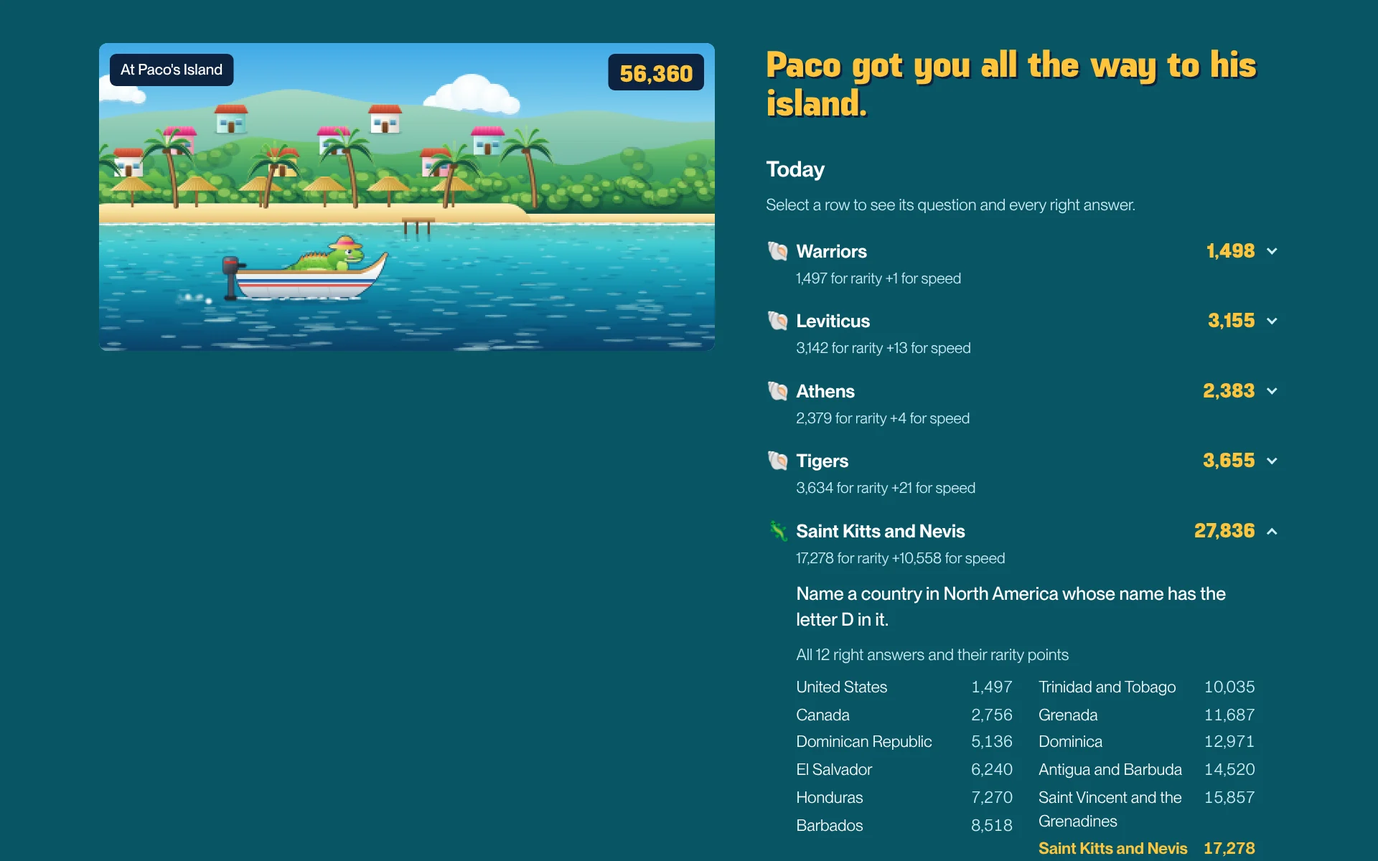
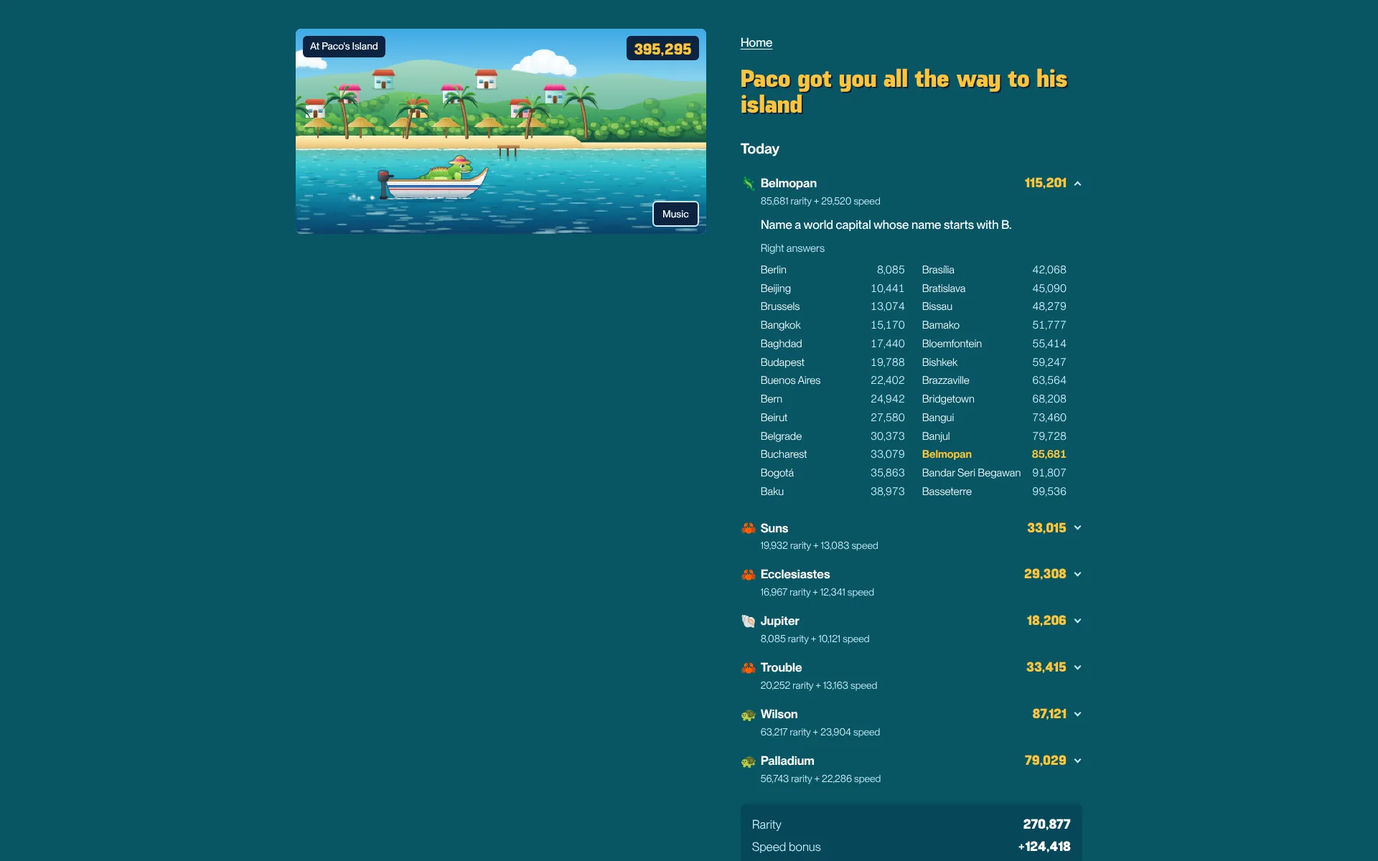
Bring the Paco's Island page up to date and add a World Six page
The Paco's Island page gets today's scale, trips, question count and set shape, new screenshots, and sections on its levels and Vacation mode. A new World Six project page covers its scoring, daily sets, places and stack, and Projects and the arcade link to it.

diff --git a/projects/pacos-island.html b/projects/pacos-island.html
@@ -40,27 +40,27 @@
 
     <h1 class="project__title">Paco&rsquo;s Island</h1>
     <p class="project__lede">A daily trivia game. Paco is an iguana with a boat, and every day he asks seven questions. Each one has a fixed list of right answers. The rarer your answer, the farther he takes you across a bay I made up.</p>
-    <dl class="glance"><div><dt>Problem</dt><dd>A game that scores an answer by how few people gave it needs a crowd before its scores mean anything.</dd></div><div><dt>System</dt><dd>Seven questions a day, the same for everyone. Every right answer carries a rarity score that&rsquo;s set ahead of time.</dd></div><div><dt>Mechanics</dt><dd>Rarity comes from how often a name appears in English text, steadied by a hand-set tier. A curve turns it into points, a speed bonus grows with rarity, and the day&rsquo;s total moves Paco along one of four trips.</dd></div><div><dt>Stack</dt><dd>HTML, CSS, and JavaScript with no build step; PixiJS; a service worker; a Node check on the question pool; Cloudflare Workers.</dd></div><div><dt>Result</dt><dd>640 questions, with daily sets built a year ahead. It scores the same for one player or a million, runs without a server, and installs to a computer or phone.</dd></div></dl>
+    <dl class="glance"><div><dt>Problem</dt><dd>A game that scores an answer by how few people gave it needs a crowd before its scores mean anything.</dd></div><div><dt>System</dt><dd>Seven questions a day, the same for everyone. Every right answer carries a rarity score that&rsquo;s set ahead of time.</dd></div><div><dt>Mechanics</dt><dd>Rarity comes from how often a name appears in English text, steadied by a hand-set tier. A curve turns it into points, a speed bonus grows with rarity, and the day&rsquo;s total moves Paco along one of seven trips.</dd></div><div><dt>Stack</dt><dd>HTML, CSS, and JavaScript with no build step; PixiJS; a service worker; a Node check on the question pool; Cloudflare Workers.</dd></div><div><dt>Result</dt><dd>1,075 questions, with daily sets built a year ahead. It scores the same for one player or a million, runs without a server, and installs to a computer or phone.</dd></div></dl>
 
     <figure class="figure bleed">
-      <img src="../assets/pacos-island/title.webp" alt="The Paco's Island title screen on a computer. On the left, a drawn scene of a bay: a town with colored houses, a striped lighthouse on a pier, and Paco the iguana in a straw hat in a white boat. On the right, the wordmark, a one-line description, a list of four trips with three still locked, and a yellow button reading Start today's trip." />
-      <figcaption>The title screen. The boat is open from the start, and the other three trips open with points.</figcaption>
+      <img src="../assets/pacos-island/title.webp" alt="The Paco's Island title screen on a computer. On the left, a drawn scene of a bay: a town with colored houses, a striped lighthouse on a pier, and Paco the iguana in a straw hat in a white boat. On the right, the wordmark, a choice of three levels, a choice between today's trip and endless mode, and the list of trips, with Deliveries with Tío still locked." />
+      <figcaption>The title screen. The boat is open from the start, and the other six trips open with points.</figcaption>
     </figure>
 
     <div class="project__body">
 
       <h2>A question has many right answers</h2>
-      <p>Every question is a list cut by a rule. &ldquo;Name a country in North America whose name has the letter D in it&rdquo; has twelve right answers. The United States earns 1,497 points. Saint Kitts and Nevis earns 17,278. You get 25 seconds, and a wrong guess costs only the time it took.</p>
+      <p>Every question is a list cut by a rule. &ldquo;Name a world capital whose name starts with B&rdquo; has 26 right answers. Berlin earns 8,085 points. Belmopan earns 85,681. You get 25 seconds, and a wrong guess costs only the time it took.</p>
 
-      <p>The lists are the 193 UN member states, world capitals, the 50 states and their capitals, Mexico&rsquo;s 32 federal entities, the 118 elements, four sports leagues, the presidents, the constellations, the Greek letters, the NATO alphabet, and the books of the Bible. A close misspelling counts, and the game tells you what it counted.</p>
+      <p>The lists are the 193 UN member states, world capitals, the 50 states and their capitals, Mexico&rsquo;s 32 federal entities, the 118 elements, seven sports leagues, the presidents, the constellations, the Greek letters, the NATO alphabet, and the books of the Bible. There are also 311 more lists, like board games, cheeses, and sitcom families. A close misspelling counts, and so does the distinctive part of a longer name: Pennsylvania counts for Pennsylvania Avenue. The game tells you what it counted.</p>
 
       <div class="figpair">
         <figure class="figure">
-          <img src="../assets/pacos-island/question.webp" alt="A question in play: Name a world capital whose name ends with S. An answer box, a yellow Answer button, and a clock bar at 25 seconds. The scene shows Paco's boat near a rock arch, with the next stop and the score in labels over the picture." />
+          <img src="../assets/pacos-island/question.webp" alt="A question in play: Name a world capital whose name starts with B. An answer box, a yellow Answer button, a clock bar at 24 seconds, and a pink Stumped button. The scene shows Paco's boat at the pier, with the next stop and the score in labels over the picture." />
           <figcaption>A question, the clock, and the next stop on the scene.</figcaption>
         </figure>
         <figure class="figure">
-          <img src="../assets/pacos-island/answer.webp" alt="The result of an answer: Saint Kitts and Nevis, 27,897 points in large yellow numbers, split into 17,278 for rarity and 10,619 for speed, with a Next question button. The boat has moved along the coast." />
+          <img src="../assets/pacos-island/answer.webp" alt="The result of an answer: Belmopan, 115,201 points in large yellow numbers, split into 85,681 rarity and 29,520 speed, with a Next question button. The boat has moved along the coast." />
           <figcaption>A rare answer, given fast. The points split into rarity and speed.</figcaption>
         </figure>
       </div>
@@ -68,13 +68,13 @@
       <h2>Rarity is fixed, so the game needs no crowd</h2>
       <p>Each answer has a familiarity score that never changes with play. For places, elements, and presidents, 60% of it comes from how often the name appears in English text and 40% from a tier I set by hand, from 1 for a name almost everyone thinks of to 5 for one almost nobody does. Team nicknames use the tier alone, because Heat, Wild, and Stars are common words and their frequency says nothing about the team.</p>
 
-      <p>On a question, an answer&rsquo;s rarity depends on where it sits among the other right answers, so a list of 6 and a list of 55 score on the same scale. A curve turns that into up to 20,000 points. The most familiar answer earns about 1,500. The speed bonus is worth a lot on a rare answer and almost nothing on a common one, and it halves about every seven seconds.</p>
+      <p>On a question, an answer&rsquo;s rarity depends on where it sits among the other right answers, so a list of 6 and a list of 55 score on the same scale. A curve turns that into up to 108,000 points. The most familiar answer earns about 8,100. The speed bonus is 8,100 points plus a quarter of the rarity. It&rsquo;s full for the first five seconds and nearly gone by 15. A question tops out at 143,100, and a perfect day at 1,001,700.</p>
 
       <h2>Every set opens easy</h2>
-      <p>A set of seven has the same shape every day: two openers anyone can answer, three medium questions, and two hard ones. No list appears twice in a set. The daily sets are built a year ahead, and each day skips the questions used in the 30 days before it.</p>
+      <p>A set of seven has the same shape every day: two openers anyone can answer, an easy one, three medium questions, and a hard one. No list appears twice in a set. The daily sets are built a year ahead, and each day skips the questions used in the 30 days before it. Days already played are locked, so adding questions never changes a day someone has seen.</p>
 
       <h2>The score is a place</h2>
-      <p>Your trip shows the day&rsquo;s score as how far Paco got you. The boat runs from the Ixtaluz pier to his island. A walk to a waterfall opens at 50,000 lifetime points, an ATV ride at 110,000, and a dive at 450,000. Points are the same on every trip, so two players on different trips can still compare scores.</p>
+      <p>Your trip shows the day&rsquo;s score as how far Paco got you. The boat runs from the Ixtaluz pier to his island. A walk to a waterfall opens at 270,000 lifetime points, and an ATV ride at 594,000. Deliveries with Tío open at 810,000, then a night market at 1,080,000. A flight with Esmeralda the macaw opens at 1,620,000, and a dive at 2,430,000. Points are the same on every trip, so two players on different trips can still compare scores.</p>
 
       <p>Every place is invented: the bay, the town, the stops along the coast, and the island. Each name was searched before use, and the ones that matched a real place were dropped.</p>
 
@@ -83,16 +83,27 @@
         <figcaption>The boat, the walk, the ATV, and the dive.</figcaption>
       </figure>
 
-      <h2>The end of the day shows every answer once</h2>
-      <p>The score sheet has one row per question: your answer and its points. A row opens to its question and every right answer, most familiar first, with what each would have earned. The share text lists the seven scores, the rarity and speed totals, and your time.</p>
+      <h2>Three levels and an endless mode</h2>
+      <p>Paco&rsquo;s mode gives you 25 seconds a question. Mario&rsquo;s mode, with Paco&rsquo;s twin brother, gives you 40 seconds and pays half. When the clock runs out it&rsquo;s island time: the question stays open, and a right answer earns a flat 2,700 points. Stumped moves on with none. Each level has its own daily set, and endless mode deals new rounds of seven with every trip open.</p>
+
+      <h2>Vacation mode has no clock</h2>
+      <p>Vacation mode is for people who don&rsquo;t want a timer. A right answer scores its rarity alone, and the questions are the easiest in the game. Paco strolls down a beach to Maria&rsquo;s caf&eacute;. After every right answer, her menu comes up: seven drinks and eight plates. Pick one, and she walks it over to Paco.</p>
 
       <figure class="figure bleed">
-        <img src="../assets/pacos-island/end.webp" alt="The end of a day. The headline reads Paco got you all the way to his island. A score sheet lists seven answers with their points. One row is open, showing its question and all twelve right answers with their rarity points, with the player's answer marked in yellow." />
-        <figcaption>One row is open. It shows the question and all twelve right answers.</figcaption>
+        <img src="../assets/pacos-island/vacation-strip.webp" alt="Three phone screens from Vacation mode. The title screen with the beach lane and Vacation mode chosen. Maria's menu, Café Maria, listing drinks with a drawing of each. Maria standing beside Paco on the boardwalk with the drink, and below it the drink drawn large: Agua de jamaica, iced hibiscus tea." />
+        <figcaption>The Vacation mode start screen, Maria&rsquo;s menu, and Maria bringing an agua de jamaica.</figcaption>
+      </figure>
+
+      <h2>The end of the day shows every answer once</h2>
+      <p>The score sheet has one row per question: your answer and its points. A row opens to its question and every right answer, most familiar first, with what each would have earned. The share text is a row of marks, one per question, and the final score. The end screen also measures the day against 1,000 simulated players on the same seven questions.</p>
+
+      <figure class="figure bleed">
+        <img src="../assets/pacos-island/end.webp" alt="The end of a day. The headline reads Paco got you all the way to his island. A score sheet lists seven answers with their points. The first row is open, showing its question and all 26 right answers with their rarity points, with the player's answer, Belmopan, marked in yellow." />
+        <figcaption>One row is open. It shows the question and all 26 right answers.</figcaption>
       </figure>
 
       <figure class="figure bleed">
-        <img src="../assets/pacos-island/phone-strip.webp" alt="Three phone screens side by side: the title screen with the scene above the list of trips, a question with the answer box and clock, and the end of the day with the score sheet." />
+        <img src="../assets/pacos-island/phone-strip.webp" alt="Three phone screens side by side: the title screen with the scene above the levels, a question with the answer box and clock, and the end of the day with the score sheet." />
         <figcaption>The title, a question, and the end of the day on a phone.</figcaption>
       </figure>
 
@@ -116,7 +127,7 @@
       </dl>
 
       <h2>What changed after the first build</h2>
-      <p>The first version scored an answer by the share of players who gave it, with estimates standing in until people played. Fixed scores replaced that. The stops were first named for real places, and they became invented ones. The scene started as 240 by 120 pixel art and was redrawn twice, ending at 480 by 240 with shading and gradients. The pool grew from 218 questions to 640, and sets began to open with easy ones.</p>
+      <p>The first version scored an answer by the share of players who gave it, with estimates standing in until people played. Fixed scores replaced that. The stops were first named for real places, and they became invented ones. The scene started as 240 by 120 pixel art and was redrawn twice, ending at 480 by 240 with shading and gradients. The pool grew from 218 questions to 640, and sets began to open with easy ones. After launch, scores moved to a pinball scale, three trips were added, Vacation mode arrived, and the pool passed 1,000 questions.</p>
 
       <p class="tech-line">Play it: <a href="https://pacoisland.fun/" target="_blank" rel="noopener">Paco&rsquo;s Island</a>. Repo: <a href="https://github.com/quarterback/pacos-island" target="_blank" rel="noopener">quarterback/pacos-island</a>.</p>
 

diff --git a/projects/world-six.html b/projects/world-six.html
@@ -1,0 +1,132 @@
+<!doctype html>
+<html lang="en">
+<head>
+<meta charset="utf-8" />
+<meta name="viewport" content="width=device-width, initial-scale=1" />
+<link rel="icon" href="/favicon.svg" type="image/svg+xml" />
+<link rel="icon" href="/favicon.png" type="image/png" sizes="any" />
+<title>World Six | Ron Bronson</title>
+<meta name="description" content="A daily geography game Ron Bronson designed. Players find six places on a world map, one tap each, and score for how close and how fast they are." />
+<link rel="canonical" href="https://ronbronson.dev/projects/world-six.html" />
+<meta property="og:type" content="website" />
+<meta property="og:site_name" content="Ron Bronson" />
+<meta property="og:title" content="World Six | Ron Bronson" />
+<meta property="og:description" content="A daily geography game Ron Bronson designed. Players find six places on a world map, one tap each, and score for how close and how fast they are." />
+<meta property="og:url" content="https://ronbronson.dev/projects/world-six.html" />
+<meta property="og:image" content="https://ronbronson.dev/assets/social-card.png" />
+<meta property="og:image:width" content="1200" />
+<meta property="og:image:height" content="630" />
+<meta property="og:image:alt" content="Ron Bronson beside the words Problems Are Designed, with a workshop photo and a content schema check." />
+<meta name="twitter:card" content="summary_large_image" />
+<meta name="twitter:title" content="World Six | Ron Bronson" />
+<meta name="twitter:description" content="A daily geography game Ron Bronson designed. Players find six places on a world map, one tap each, and score for how close and how fast they are." />
+<meta name="twitter:image" content="https://ronbronson.dev/assets/social-card.png" />
+<link rel="preload" as="font" type="font/woff2" href="../assets/fonts/gallery/PPNeueMontreal-Extrabold.woff2" crossorigin />
+<link rel="stylesheet" href="../assets/slabs.css" />
+<script src="../assets/contact.js" defer></script>
+</head>
+<body class="pg-blue">
+<div class="s-wrap">
+
+  <header class="top">
+    <p class="top__name"><a href="../index.html">Ron Bronson</a></p>
+    <nav aria-label="Main navigation"><a href="../index.html#work">Work</a><a href="https://ronbronson.design">Design</a><a href="https://blog.ronbronson.dev">Blog</a><a class="nav-gh" href="https://github.com/quarterback" target="_blank" rel="me noopener" aria-label="GitHub" title="GitHub"><svg viewBox="0 0 496 512" width="22" height="22" fill="currentColor" aria-hidden="true"><path d="M165.9 397.4c0 2-2.3 3.6-5.2 3.6-3.3.3-5.6-1.3-5.6-3.6 0-2 2.3-3.6 5.2-3.6 3-.3 5.6 1.3 5.6 3.6zm-31.1-4.5c-.7 2 1.3 4.3 4.3 4.9 2.6 1 5.6 0 6.2-2s-1.3-4.3-4.3-5.2c-2.6-.7-5.5.3-6.2 2.3zm44.2-1.7c-2.9.7-4.9 2.6-4.6 4.9.3 2 2.9 3.3 5.9 2.6 2.9-.7 4.9-2.6 4.6-4.6-.3-1.9-3-3.2-5.9-2.9zM244.8 8C106.1 8 0 113.3 0 252c0 110.9 69.8 205.8 169.5 239.2 12.8 2.3 17.3-5.6 17.3-12.1 0-6.2-.3-40.4-.3-61.4 0 0-70 15-84.7-29.8 0 0-11.4-29.1-27.8-36.6 0 0-22.9-15.7 1.6-15.4 0 0 24.9 2 38.6 25.8 21.9 38.6 58.6 27.5 72.9 20.9 2.3-16 8.8-27.1 16-33.7-55.9-6.2-112.3-14.3-112.3-110.5 0-27.5 7.6-41.3 23.6-58.9-2.6-6.5-11.1-33.3 2.6-67.9 20.9-6.5 69 27 69 27 20-5.6 41.5-8.5 62.8-8.5s42.8 2.9 62.8 8.5c0 0 48.1-33.6 69-27 13.7 34.7 5.2 61.4 2.6 67.9 16 17.7 26 31.4 26 58.9 0 96.5-58.9 104.2-114.8 110.5 9.2 7.9 17 22.9 17 46.4 0 33.7-.3 75.4-.3 82 0 6.5 4.6 14.4 17.3 12.1C428.2 457.8 496 362.9 496 252 496 113.3 383.5 8 244.8 8z"/></svg></a><a class="nav-mail" href="#contact" data-contact aria-label="Email" title="Email"><svg viewBox="0 0 24 24" width="22" height="22" fill="none" stroke="currentColor" stroke-width="2.2" stroke-linejoin="round" aria-hidden="true"><rect x="2.5" y="5" width="19" height="14"/><path d="M3 6l9 7 9-7"/></svg></a></nav>
+  </header>
+
+  <article class="project">
+
+    <h1 class="project__title">World Six</h1>
+    <p class="project__lede">A daily geography game. You get six places a day and one tap on a world map for each. The closer your pin, and the faster you place it, the more you score.</p>
+    <dl class="glance"><div><dt>Problem</dt><dd>A map game that pays for speed ends up rewarding fast, random taps.</dd></div><div><dt>System</dt><dd>Six places a day, the same for everyone: two easy, two medium, and two hard, one per country, from at least four continents.</dd></div><div><dt>Mechanics</dt><dd>Each pin earns up to 20,000 points for distance and up to 30,000 more for speed. The speed bonus grows with the cube of your accuracy, so a fast miss earns almost none.</dd></div><div><dt>Stack</dt><dd>SvelteKit, MapLibre, and d3-geo; an Express API that keeps the clock and the score; Cloudflare Workers.</dd></div><div><dt>Result</dt><dd>97 hand-picked places and about 3,400 more from Natural Earth and GeoNames. Every day&rsquo;s set comes from the date, and your history stays on your device.</dd></div></dl>
+
+    <figure class="figure bleed">
+      <img src="../assets/world-six/play.webp" alt="World Six on a computer, mid-round. A world map fills the screen. A card in the corner reads Round 1: Chicago was 6,247 mi away, then Round 2 of 6, Hiroshima, Hiroshima, Japan. Six numbered squares across the top show the rounds." />
+      <figcaption>A round in play. The previous answer&rsquo;s distance and points sit above the new place.</figcaption>
+    </figure>
+
+    <div class="project__body">
+
+      <h2>Closer and faster both score</h2>
+      <p>Distance is measured over a round Earth, the shortest way between your pin and the place. A pin on the spot earns 20,000 points, one 25 miles off earns 15,988, and one 250 miles off earns 7,358. The curve has no bands, so every mile counts.</p>
+
+      <p>The speed bonus starts at one and a half times your distance points and fades as the round goes on, to about a third every ten seconds. It&rsquo;s scaled by the cube of your accuracy. A pin 5 miles off in 5 seconds scores 31,772. A pin 25 miles off in 1 second scores 27,075. The clock only runs while you&rsquo;re guessing.</p>
+
+      <h2>Six places, balanced every day</h2>
+      <p>Each day has two easy places, two medium, and two hard, in that order, with one place per country from at least four continents. The last one is a less familiar place. A place rests 60 days after it&rsquo;s used if it&rsquo;s easy, 180 if it&rsquo;s medium, and 365 if it&rsquo;s hard. Every clue gives the town, its state or province, and its country, so a name like Nelson is never a guess.</p>
+
+      <p>The first 97 places were picked by hand. On 18 November 2026 about 3,400 more came in from Natural Earth and GeoNames. Days before then still use only the first 97, so a past day never changes.</p>
+
+      <h2>No transition screens</h2>
+      <p>Play opens round one. A tap on the map submits your guess and opens the next place straight away, with the last answer&rsquo;s distance and points in a line above it. Every pin shows on the results page. Practice deals a new set of six anytime and stays out of your daily history.</p>
+
+      <figure class="figure bleed">
+        <img src="../assets/world-six/phone-strip.webp" alt="Three phone screens. Round 1 of 6, Auckland, Auckland Region, New Zealand, over a world map. Round 2 of 6, Kano, Kano State, Nigeria, with the line Round 1: Auckland was 34 mi away, plus 18,162. The results page: six rounds with flags and points, 88,632 for distance, 20,150 for speed, and a total of 108,782." />
+        <figcaption>Two rounds and the results of a practice run on a phone.</figcaption>
+      </figure>
+
+      <h2>The date line</h2>
+      <p>Because distance is measured over a round Earth, a guess near Fiji that lands on the other side of the date line still counts the short way around. The results map draws it that way too, so a near miss shows as a near miss.</p>
+
+      <h2>How it&rsquo;s built</h2>
+
+      <dl class="stack-block">
+        <dt>App</dt>
+        <dd>SvelteKit and Svelte 5, with MapLibre and d3-geo for the map. While you play, the map fills the screen on a phone or a computer.</dd>
+        <dt>API</dt>
+        <dd>An Express server keeps the time and does the scoring, so the browser&rsquo;s clock is only for show. Game sessions are encrypted tokens, and no player&rsquo;s results are stored.</dd>
+        <dt>Places</dt>
+        <dd>A build script pulls cities and towns from Natural Earth and GeoNames, with each place&rsquo;s state or province.</dd>
+        <dt>Shares</dt>
+        <dd>A shared result is a signed link, so the score in it can&rsquo;t be edited.</dd>
+        <dt>History</dt>
+        <dd>Your past games stay in your browser. There are no accounts.</dd>
+        <dt>Hosting</dt>
+        <dd>One Cloudflare Worker serves the app and runs the API.</dd>
+      </dl>
+
+      <p class="tech-line">Play it: <a href="https://worldsix.pdtmag.com/" target="_blank" rel="noopener">World Six</a>.</p>
+
+    </div>
+
+  </article>
+
+  <footer class="foot" id="contact">
+    <div class="hx-icons" aria-label="Elsewhere"><a class="hx-i" href="https://bsky.app/profile/ronbronson.com" target="_blank" rel="me noopener" aria-label="Bluesky" title="Bluesky"><svg viewBox="0 0 576 512" fill="currentColor" aria-hidden="true"><path d="M407.8 294.7c-3.3-.4-6.7-.8-10-1.3 3.4 .4 6.7 .9 10 1.3zM288 227.1C261.9 176.4 190.9 81.9 124.9 35.3 61.6-9.4 37.5-1.7 21.6 5.5 3.3 13.8 0 41.9 0 58.4S9.1 194 15 213.9c19.5 65.7 89.1 87.9 153.2 80.7 3.3-.5 6.6-.9 10-1.4-3.3 .5-6.6 1-10 1.4-93.9 14-177.3 48.2-67.9 169.9 120.3 124.6 164.8-26.7 187.7-103.4 22.9 76.7 49.2 222.5 185.6 103.4 102.4-103.4 28.1-156-65.8-169.9-3.3-.4-6.7-.8-10-1.3 3.4 .4 6.7 .9 10 1.3 64.1 7.1 133.6-15.1 153.2-80.7 5.9-19.9 15-138.9 15-155.5s-3.3-44.7-21.6-52.9c-15.8-7.1-40-14.9-103.2 29.8-66.1 46.6-137.1 141.1-163.2 191.8z"></path></svg></a><a class="hx-i" href="https://github.com/quarterback" target="_blank" rel="me noopener" aria-label="GitHub" title="GitHub"><svg viewBox="0 0 512 512" fill="currentColor" aria-hidden="true"><path d="M216.5 362.5c-66-8-112.5-55.5-112.5-117 0-25 9-52 24-70-6.5-16.5-5.5-51.5 2-66 20-2.5 47 8 63 22.5 19-6 39-9 63.5-9s44.5 3 62.5 8.5c15.5-14 43-24.5 63-22 7 13.5 8 48.5 1.5 65.5 16 19 24.5 44.5 24.5 70.5 0 61.5-46.5 108-113.5 116.5 17 11 28.5 35 28.5 62.5l0 52C323 491.5 335.5 500 350.5 494 441 459.5 512 369 512 257 512 115.5 397 0 255.5 0S0 115.5 0 257c0 111 70.5 203 165.5 237.5 13.5 5 26.5-4 26.5-17.5l0-40c-7 3-16 5-24 5-33 0-52.5-18-66.5-51.5-5.5-13.5-11.5-21.5-23-23-6-.5-8-3-8-6 0-6 10-10.5 20-10.5 14.5 0 27 9 40 27.5 10 14.5 20.5 21 33 21s20.5-4.5 32-16c8.5-8.5 15-16 21-21z"></path></svg></a><a class="hx-i" rel="me" href="mailto:ron@ronbronson.com" aria-label="Email" title="Email"><svg viewBox="0 0 512 512" fill="currentColor" aria-hidden="true"><path d="M48 64c-26.5 0-48 21.5-48 48 0 15.1 7.1 29.3 19.2 38.4l208 156c17.1 12.8 40.5 12.8 57.6 0l208-156c12.1-9.1 19.2-23.3 19.2-38.4 0-26.5-21.5-48-48-48L48 64zM0 196L0 384c0 35.3 28.7 64 64 64l384 0c35.3 0 64-28.7 64-64l0-188-198.4 148.8c-34.1 25.6-81.1 25.6-115.2 0L0 196z"></path></svg></a></div>
+    <h2>Colophon, with digressions</h2>
+    <p><b>Type</b> PP Neue Montreal, Hanken Grotesk, IBM Plex Mono</p>
+    <p><b>Built with</b> HTML, CSS, JavaScript, SVG</p>
+    <p><b>Images</b> static screenshots</p>
+    <p><b>Hosting</b> GitHub, Vercel</p>
+    <p class="digression" id="digression">Inexplicably, a Green Bay Packers shareholder.</p>
+  </footer>
+
+</div>
+  <script>
+    /* Digressions — one aside, picked at random per load (never the same
+       one twice in a row). Add or edit entries in DIGRESSIONS; the footer
+       shows one at a time so the list never has to be spelled out. */
+    (function () {
+      var DIGRESSIONS = [
+        "Inexplicably, a Green Bay Packers shareholder.",
+        "Favorite sports teams: Toronto Blue Jays, Vimpelin Veto, New Jersey Devils, Lapuan Virkiä, <s>New York Jets</s>, Portland Timbers, New York Knicks, Portland Thorns, Brighton &amp; Hove Albion, Sassuolo, Toluca, Toronto Tempo, Montreal Expos (RIP)",
+        "<em>Have you seen my fragrance collection?</em> <a href='https://www.oksmelly.xyz/' target='_blank' rel='noopener'>it’s here</a>.",
+        "I’m a longtime tea sommelier. I once curated the tea menu at <a href='https://hopscotchcoffee.com/' target='_blank' rel='noopener'>Hopscotch Coffee</a> in Bloomington. Ask me for loose-leaf recs!",
+        "Favorite wine regions: Slovenia, Georgia or anything that aged in amphorae or an old boot. I’m not picky.",
+        "I’ve coached high school tennis for ten years across 3 states. My career varsity record apparently is 91-33-4. 1 team state championship, 4 District/Regional titles, 5 Conference titles. 4 individual state champions. So far…",
+        "Yes, I have a <a href='https://www.discogs.com/user/quarterback/collection?header=1' target='_blank' rel='noopener'>Discogs</a> 🙄",
+        "I actually grew up watching golf, because my grandfather played. I still like a Par 3 because of him.",
+        "Last time I went fishing? 1994.",
+        "Unsurprisingly, I was once a bar trivia host in Bloomington. One step closer to my true calling: game show host."
+      ];
+      var el = document.getElementById("digression");
+      if (!el) return;
+      var last = -1;
+      try { last = parseInt(sessionStorage.getItem("rb-digression"), 10); } catch (e) {}
+      var i = Math.floor(Math.random() * DIGRESSIONS.length);
+      while (DIGRESSIONS.length > 1 && i === last) i = Math.floor(Math.random() * DIGRESSIONS.length);
+      try { sessionStorage.setItem("rb-digression", i); } catch (e) {}
+      el.innerHTML = DIGRESSIONS[i];
+    })();
+  </script>
+</body>
+</html>

diff --git a/projects.html b/projects.html
@@ -27,7 +27,7 @@
       <li><b><a href="projects/varsityapex.html">VarsityApex</a></b><span>A prototype that turns the files schools already produce into portable, attributable records.</span><img class="pop" src="assets/varsityapex/home.png" alt="" loading="lazy" /></li>
       <li><b><a href="projects/coalition.html">Coalition</a></b><span>An escape game in one HTML file, where allies work in parallel and dice force you to plan around the people who fail to deliver.</span><img class="pop" src="assets/coalition/play.webp" alt="" loading="lazy" /></li>
       <li><b><a href="projects/pacos-island.html">Paco&rsquo;s Island</a></b><span>Seven trivia questions a day. The rarer your answer, the farther Paco the iguana takes you.</span><img class="pop" src="assets/pacos-island/end.webp" alt="" loading="lazy" /></li>
-      <li><b><a href="https://worldsix.pdtmag.com">World Six</a></b><span>A daily geography game: six places, one tap each on a world map.</span><img class="pop" src="assets/world-six/play.webp" alt="" loading="lazy" /></li>
+      <li><b><a href="projects/world-six.html">World Six</a></b><span>A daily geography game: six places, one tap each on a world map.</span><img class="pop" src="assets/world-six/play.webp" alt="" loading="lazy" /></li>
       <li><b><a href="projects/draft-lab.html">Cap Buffet</a></b><span>Lets a league try a salary cap system before adopting it, with 18 mechanics as swappable modules.</span><img class="pop" src="assets/capbuffet/home.png" alt="" loading="lazy" /></li>
       <li><b><a href="projects/oregon-tennis.html">Oregon HS Tennis Power Rankings</a></b><span>Independent ratings for every Oregon high school team from four years of results, like the computer rankings in college football and basketball.</span><img class="pop" src="assets/oregon-tennis/home.png" alt="" loading="lazy" /></li>
       <li><b><a href="projects/occupant.html">Occupant Indices</a></b><span>Daily price and activity indices for the AI economy, built from public data.</span><img class="pop" src="assets/occupant/dashboard.webp" alt="" loading="lazy" /></li>

diff --git a/arcade.html b/arcade.html
@@ -49,7 +49,7 @@
     <article class="cab cab--upright" style="--mq: #d9f071; --mq-ink: #192b31;">
       <h3 class="cab__marquee"><a href="https://worldsix.pdtmag.com">World Six</a></h3>
       <div class="cab__screen"><video muted loop playsinline preload="none" poster="assets/world-six/run-poster.webp" aria-label="A World Six round played on a phone: six places, a tap on the world map for each, and the final score"><source src="assets/world-six/run.mp4" type="video/mp4" /><source src="assets/world-six/run.webm" type="video/webm" /></video></div>
-      <div class="cab__panel"><a class="cab__btn cab__btn--play" href="https://worldsix.pdtmag.com">Play</a></div>
+      <div class="cab__panel"><a class="cab__btn cab__btn--play" href="https://worldsix.pdtmag.com">Play</a><a class="cab__btn cab__btn--how" href="projects/world-six.html">How I built it</a></div>
       <p class="cab__about">Six places a day, one tap each on a world map. Closer and faster both score. A guess across the date line counts the short way around.</p>
     </article>
     <article class="cab cab--upright" style="--mq: #15151f; --mq-ink: #ffd24a;">

diff --git a/docs/aar-arcade-2026-11-20.md b/docs/aar-arcade-2026-11-20.md
@@ -48,9 +48,21 @@ Ron asked whether the Projects page had changed. It hadn't, apart from Arcade in
 - **Arcade:** the Paco's Island cabinet now has How I built it, linking the project page.
 - **Checks:** projects.html, arcade.html and the Paco's Island page load with no failed requests or page errors; prosekeep 0 findings on both pages; plain-language-default 0 on the new lines.
 
-## 6. Gaps
+## 6. Follow-up: closing the open items
 
-- World Six has no project page, so its cabinet has no How I built it button.
-- The Paco's Island project page predates Vacation mode and doesn't mention it.
+Ron asked for the open items to be done, with the language held to his editorial rules, and the arcade cut to its title and the games.
+
+- **Arcade:** the title is "Arcade" (not "Ron's Arcade"), with no subtitle, no section labels, and no talk line; all seven cabinets sit on one floor, with Tennis Polo last. Projects is in its navigation. Play To Clinch and SuperInnings, which aren't online, lost their Play buttons and link to their project pages. Viperball is described as a computer game. Tennis Polo is described as Ron put it, a field sport for two teams of nine with a racket-holding goalkeeper, and shows one of his 2010 game photos from his Substack post (his own photo; he asked for no credit).
+- **Paco's Island page:** brought up to date from the game's spec. Seven trips, not four, with today's opening thresholds; 1,075 questions; the pinball scale (up to 108,000 rarity points, 143,100 a question, 1,001,700 a day); the speed bonus as it works now; the set shape (two openers, an easy one, three medium, a hard one); locked days; seven sports leagues and 311 more lists; partial names. The worked example moved from a retired letter question to "Name a world capital whose name starts with B" (Berlin 8,085, Belmopan 85,681). New sections: "Three levels and an endless mode" and "Vacation mode has no clock," with a new three-phone strip. Every screenshot was retaken at the current scale, and the alt text rewritten to match.
+- **World Six page (`projects/world-six.html`):** new, in the Paco's Island page's format, from the game's `SCORING.md`, `replit.md` and code: the scoring (20,000 for distance, up to 30,000 for speed, scaled by the cube of accuracy, with the documented examples), how a day's six places are chosen and rested, the 97 hand-picked and about 3,400 added places, no transition screens, the date line, and the stack. The repo is private, so the page doesn't link it. Projects and the arcade cabinet link to it.
+- **Checks:** prosekeep found nothing on all four pages. On the visible text, plain-language-default found nothing on the World Six page; on the Paco's Island page it flags three long sentences that were there before this run (the lists, the familiarity split, and the rarity curve), and the one this run lengthened was split. red-pen-editor found no repetition on either page. All four pages load with no failed requests or errors.
+
+## 7. For Ron to confirm
+
+- The World Six page has no "Records" line about how it was built, because that would be a claim about his role that isn't documented; add one if wanted.
+- The three long sentences on the Paco's Island page are another session's wording and were left as they are.
+
+## 8. Gaps
+
 - pctennis.xyz and superinnin.gs didn't answer through this session's network; their links are the ones their project pages already use.
 - Talks, about and the project pages don't link to the arcade yet.
